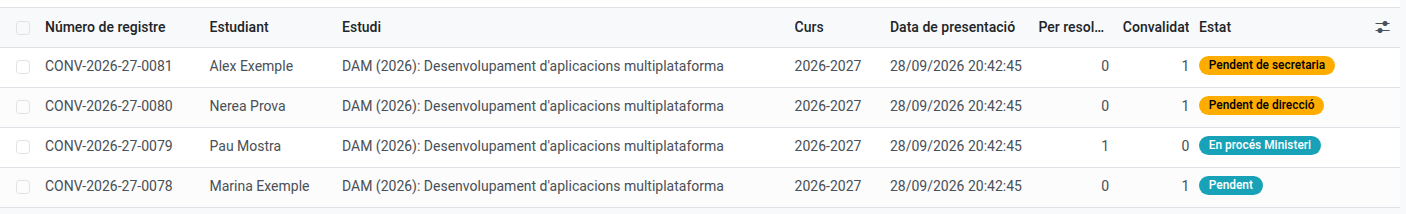
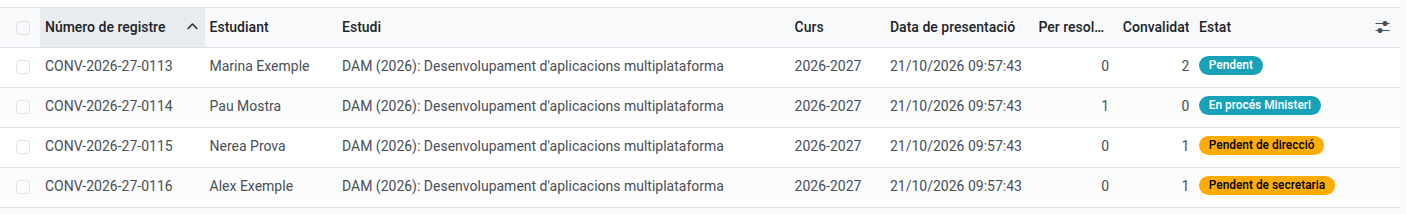
#657 Convalidations: oldest request first, identity document under the IDALU, academic history tab for the Head of Studies

diff --git a/static/tests/tours/convalidation_tour.js b/static/tests/tours/convalidation_tour.js
@@ -7,12 +7,26 @@ import { clickAction } from "@ems/../tests/tours/actions_dropdown_helpers";
 // tests/test_convalidation_tour.py and uses structural selectors (button names, CSS classes),
 // so the logged-in user's language does not matter.
 
+// Issue #657: the list puts the oldest request on top, so the test's own requests (course
+// 2094-95) can fall past the first page wherever the database already holds others. Each tour
+// looks them up by the registry number's course part; Enter searches the first field of the
+// search view, the registration number, whatever the user's language.
+const searchTestCourse = [
+    {
+        trigger: ".o_searchview_input",
+        content: "Look for the test course's requests",
+        run: "edit CONV-2094-95",
+    },
+    { trigger: ".o_searchview_input", content: "Confirm the search", run: "press Enter" },
+];
+
 // The Head of Studies reviews a request from Academic management > Convalidations: grants the
 // subject, grades it and sends the resolution proposal to the Director.
 registry.category("web_tour.tours").add("ems_convalidation_resolve", {
     test: true,
     url: "/odoo/action-ems.action_convalidation",
     steps: () => [
+        ...searchTestCourse,
         {
             trigger: ".o_list_view .o_data_row td[name='student_id']:contains('Convalidation Student')",
             content: "The pending request is listed under the default filters",
@@ -26,6 +40,26 @@ registry.category("web_tour.tours").add("ems_convalidation_resolve", {
             // Issue #576: the student's IDALU, with a button to copy it into Esfera.
             trigger: ".o_form_view .o_field_widget[name='student_idalu']:contains('TEST') .o_clipboard_button",
             content: "The student's IDALU is shown, ready to copy",
+        },
+        {
+            // Issue #657: and their identity document, the same way.
+            trigger: ".o_form_view .o_field_widget[name='student_document_id']:contains('00000657T') .o_clipboard_button",
+            content: "The student's document ID is shown, ready to copy",
+        },
+        {
+            // Issue #657: the academic history, for whoever decides the subjects.
+            trigger: ".o_form_view .o_notebook .nav-link[name='academic_history']",
+            content: "Open the student's academic history",
+            run: "click",
+        },
+        {
+            trigger: ".o_form_view .o_field_widget[name='student_year_record_ids'] .o_data_row td[name='study_name']:contains('Previous Study (Convalidation)')",
+            content: "What the student studied before is listed",
+        },
+        {
+            trigger: ".o_form_view .o_notebook .nav-link[name='subjects']",
+            content: "Back to the subjects",
+            run: "click",
         },
         {
             trigger: ".o_form_view .o_field_widget[name='line_ids'] .o_data_row button[name='action_open_grant']",
@@ -89,6 +123,7 @@ registry.category("web_tour.tours").add("ems_convalidation_ministry", {
     test: true,
     url: "/odoo/action-ems.action_convalidation",
     steps: () => [
+        ...searchTestCourse,
         {
             trigger: ".o_list_view .o_data_row td[name='student_id']:contains('Convalidation Student')",
             content: "Open the pending request",
@@ -146,6 +181,7 @@ registry.category("web_tour.tours").add("ems_convalidation_request_info", {
     test: true,
     url: "/odoo/action-ems.action_convalidation",
     steps: () => [
+        ...searchTestCourse,
         {
             trigger: ".o_list_view .o_data_row td[name='student_id']:contains('Convalidation Student')",
             content: "Open the pending request",
@@ -188,6 +224,7 @@ registry.category("web_tour.tours").add("ems_convalidation_director_resolves", {
     test: true,
     url: "/odoo/action-ems.action_convalidation",
     steps: () => [
+        ...searchTestCourse,
         {
             trigger: ".o_list_view .o_data_row td[name='student_id']:contains('Convalidation Student')",
             content: "The proposal is listed for the Director",
@@ -219,6 +256,7 @@ registry.category("web_tour.tours").add("ems_convalidation_director_returns", {
     test: true,
     url: "/odoo/action-ems.action_convalidation",
     steps: () => [
+        ...searchTestCourse,
         {
             trigger: ".o_list_view .o_data_row td[name='student_id']:contains('Convalidation Student')",
             content: "Open the proposal",
@@ -251,6 +289,7 @@ registry.category("web_tour.tours").add("ems_convalidation_complete", {
     test: true,
     url: "/odoo/action-ems.action_convalidation",
     steps: () => [
+        ...searchTestCourse,
         {
             trigger: ".o_list_view .o_data_row td[name='student_id']:contains('Convalidation Student')",
             content: "The resolved request is listed for the secretariat too",
@@ -259,6 +298,11 @@ registry.category("web_tour.tours").add("ems_convalidation_complete", {
         {
             trigger: ".o_form_view .o_statusbar_status button[data-value='in_progress'].o_arrow_button_current",
             content: "It is waiting for the secretariat",
+        },
+        {
+            // Issue #657: the academic history tab is the Head of Studies' only.
+            trigger: ".o_form_view .o_notebook:not(:has(.nav-link[name='academic_history']))",
+            content: "The secretariat does not get the academic history tab",
         },
         ...clickAction("action_complete", "Complete it"),
         {
@@ -502,9 +546,15 @@ registry.category("web_tour.tours").add("ems_convalidation_default_filter", {
             content: "Remove the default filter",
             run: "click",
         },
+        ...searchTestCourse,
         {
             trigger: ".o_list_view .o_data_row td[name='student_id']:contains('Still Under Review Student')",
             content: "Every request is there",
+        },
+        {
+            // Issue #657: first come, first served - the oldest request on top.
+            trigger: ".o_list_view .o_data_row:nth-child(1) td[name='student_id']:contains('Convalidation Student')",
+            content: "The oldest request comes first",
         },
     ],
 });

diff --git a/models/grades/convalidation.py b/models/grades/convalidation.py
@@ -46,6 +46,12 @@ class EmsConvalidation(models.Model):
                                  domain="[('contact_type', 'in', ('student', 'applicant'))]")
     student_idalu = fields.Char(string="Student ID", related='student_id.student_id',
                                 help="The student's IDALU, to look up their academic record in Esfera.")
+    student_document_id = fields.Char(string="Document ID", related='student_id.document_id',
+                                      help="The student's identity document, to look them up in other applications.")
+    # Issue #657: what the student studied before, for whoever decides the subjects. Field-level
+    # groups too, not only the page's: nobody else reads it by RPC either.
+    student_year_record_ids = fields.One2many(string="Academic history", related='student_id.year_record_ids',
+                                              groups='ems.group_head_of_studies,ems.group_academic_admin')
     requester_id = fields.Many2one(string="Requested by", comodel_name='res.partner', ondelete='set null',
                                    help="Portal user who submitted the request: the student or a family contact.")
     course_id = fields.Many2one(string="Course", comodel_name='ems.course', required=True,

diff --git a/tests/test_convalidation.py b/tests/test_convalidation.py
@@ -480,6 +480,19 @@ class TestConvalidation(TransactionCase):
         with self.assertRaises(UserError):
             request.with_user(self.head_of_studies).action_complete()
 
+    def test_academic_history_only_for_who_decides_the_subjects(self):
+        """Issue #657: the request shows the student's academic history to the Head of Studies,
+        and to the Director and the administrator above them; not to the secretariat, although
+        it reads the history elsewhere."""
+        request = self._request()
+        record = self.env['ems.student.year_record'].create({
+            'student_id': self.student.id, 'course_id': self.course.id})
+        admin = create_role_user(self, 'academic_admin', 'test_convalidation_history_admin')
+        for user in (self.head_of_studies, self.director, admin):
+            self.assertEqual(request.with_user(user).student_year_record_ids, record)
+        with self.assertRaises(AccessError):
+            request.with_user(self.secretary).read(['student_year_record_ids'])
+
     def test_director_can_review(self):
         request = self._request()
         self._line(request).with_user(self.director).action_grant()

diff --git a/tests/test_convalidation_tour.py b/tests/test_convalidation_tour.py
@@ -20,6 +20,12 @@ class TestConvalidationTour(HttpCase):
         super().setUpClass()
         mock_outgoing_email(cls)
         create_portal_convalidation_fixtures(cls)
+        # Issue #657: the request shows both, to the Head of Studies.
+        cls.student.document_id = '00000657T'
+        cls.env['ems.student.year_record'].create({
+            'student_id': cls.student.id, 'course_id': cls.env['ems.course'].create({'start': 2092, 'end': 2093}).id,
+            'study_name': 'Previous Study (Convalidation)', 'is_external': True,
+        })
         cls.request = cls.env['ems.convalidation'].create({
             'student_id': cls.student.id, 'study_id': cls.study.id, 'course_id': cls.course.id,
             'line_ids': [(0, 0, {'subject_id': cls.subject.id})],

diff --git a/tests/test_docs_screenshots.py b/tests/test_docs_screenshots.py
@@ -396,6 +396,8 @@ class TestDocsScreenshots(DocsScreenshotMixin, HttpCase):
                 'state': 'rejected',
                 'rejection_reason_id': self.env.ref('ems.convalidation_rejection_reason_contents').id})
 
+        # Issue #657: the identity document, copied like the IDALU above it.
+        self.students[0].document_id = '00000000T'
         # The Head of Studies' review: subjects decided, one refused with its reason.
         review = new_request(self.students[0], subjects[1:], attachment_ids=[(0, 0, {
             'name': 'Certificat_academic_SMX.pdf', 'datas': base64.b64encode(b'%PDF-1.4 x')})],

diff --git a/docs/en/developers/grades/convalidation.md b/docs/en/developers/grades/convalidation.md
@@ -44,9 +44,11 @@ erDiagram
 
 | Field | Type | Notes |
 |-------|------|-------|
-| `name` | Char | Registration number, `CONV-<start>-<end, two digits>-<4-digit counter>` (e.g. `CONV-2026-27-0001`), assigned on creation by `_ems_next_registration_number(course)`. The counter starts again every course: one `ir.sequence` per course (code `ems.convalidation.course.<id>`, the prefix baked in), created the first time that course gets a request, so nothing has to be prepared before a year opens. Leads `display_name`. |
+| `name` | Char | Registration number, `CONV-<start>-<end, two digits>-<4-digit counter>` (e.g. `CONV-2026-27-0001`), assigned on creation by `_ems_next_registration_number(course)`. The counter starts again every course: one `ir.sequence` per course (code `ems.convalidation.course.<id>`, the prefix baked in), created the first time that course gets a request, so nothing has to be prepared before a year opens. Leads `display_name`. The backend list sorts by it ascending (`default_order="name asc, id asc"`, issue #657): first come, first served, the oldest request on top; the model's own `_order` (`submission_date desc`) stays for the student's own requests on the portal, newest first. |
 | `student_id` | M2o `res.partner` | Required. Student or applicant (an applicant enrolling into a cycle is the typical requester). |
 | `student_idalu` | Char, related | The student's IDALU (`student_id.student_id`), shown under *Requested by* with a copy button (`CopyClipboardChar`) to paste it into Esfera, as an optional list column, and searchable from the *Student* search field (issue #576). |
+| `student_document_id` | Char, related | The student's identity document (`student_id.document_id`), right under the IDALU with the same compact copy button, as an optional list column, and searchable from the *Student* search field too (issue #657): to look the student up in other applications. |
+| `student_year_record_ids` | O2m, related | The student's academic history (`student_id.year_record_ids`), on the form's **Academic history** tab (issue #657), for whoever decides the subjects. Field-level `groups` (`group_head_of_studies`, which the Director's group implies, and `group_academic_admin`) on top of the page's, so the secretariat, which reads the history elsewhere, gets an `AccessError` here even by RPC. Rendered with `view_year_record_history_list`, the same list the student form uses. |
 | `requester_id` | M2o `res.partner` | The portal user who submitted it: the student or a family contact. |
 | `course_id` | M2o `ems.course` | Required. Defaults to the enrollment course (`is_enrollment_default`), else the current one: requests are made while enrolling. |
 | `study_id` | M2o `ems.study` | Required. Its level must allow convalidations (`_check_study_allows_convalidation`). |

diff --git a/docs/ca/head_of_studies/convalidations.md b/docs/ca/head_of_studies/convalidations.md
@@ -49,6 +49,8 @@ La llista s'obre amb el filtre **Pendents de mi** activat, que mostra les sol·l
 
 Les que esperen la documentació del sol·licitant no hi surten mai: fes servir el filtre **Pendent de documentació** per veure-les. Treu el filtre **Pendents de mi** per veure totes les sol·licituds, o fes servir el filtre d'un estat concret (**Pendent de direcció**, **Completades**, **Rebutjades**, **Anul·lades**...) per seguir les que són en mans d'algú altre.
 
+La llista mostra primer la sol·licitud més antiga, per número de registre, perquè les sol·licituds s'atenguin en l'ordre en què han arribat.
+
 ![Llista de sol·licituds de convalidació](../../assets/head_of_studies/convalidations-list.png)
 
 Per veure les sol·licituds d'un alumne, obre la seva fitxa i fes clic al botó **Convalidacions**.
@@ -68,10 +70,12 @@ Obre la sol·licitud des de la llista. El formulari mostra:
 
 - El **número de registre** (per exemple CONV-2026-27-0001), a sobre del nom de l'alumne.
 - L'IDALU de l'alumne (**Identificador d'estudiant**), sota *Sol·licitada per*, amb un botó que el copia per enganxar-lo a Esfera i consultar-ne l'expedient acadèmic. També pots escriure un IDALU al cercador de la llista, a *Alumne*, per trobar-ne les sol·licituds.
+- El document d'identitat de l'alumne (**Document d'identitat (DNI/NIE)**), just sota l'IDALU i amb el mateix botó de copiar, per trobar l'alumne en altres aplicacions. També el pots cercar a *Alumne*.
 - **Estudi**, **Curs** i **Motiu**. Aquestes dades, l'alumne i les observacions del sol·licitant són les de la sol·licitud i no es poden modificar.
 - **Estudis superats** (només estudis previs): en aquest centre o en un altre centre o a la universitat. Una sol·licitud del portal per estudis superats en un altre lloc, o per qualsevol altre motiu, sempre arriba amb documentació justificativa; només els estudis superats aquí poden arribar sense.
 - Sota el nom de l'alumne, l'avís **Té una titulació obtinguda al centre** quan a l'històric acadèmic hi consta un títol obtingut aquí.
 - Pestanya **Assignatures**: una línia per cada mòdul sol·licitat.
+- Pestanya **Històric acadèmic** (només cap d'estudis, cap d'estudis adjunt, direcció i administrador): l'històric de l'alumne al centre, una línia per curs, el mateix que mostra la seva fitxa. Obre una línia per veure'n les assignatures i les notes.
 - Pestanya **Documentació justificativa**: els fitxers adjuntats.
 - Pestanya **Observacions del sol·licitant**: el que ha escrit l'alumne o la família.
 - Pestanya **Documentació sol·licitada**: l'última documentació que has demanat, si n'has demanat.

diff --git a/docs/es/head_of_studies/convalidations.md b/docs/es/head_of_studies/convalidations.md
@@ -49,6 +49,8 @@ La lista se abre con el filtro **Pendientes de mí** activado, que muestra las s
 
 Las que esperan la documentación del solicitante no aparecen nunca: usa el filtro **Pendiente de documentación** para verlas. Quita el filtro **Pendientes de mí** para ver todas las solicitudes, o usa el filtro de un estado concreto (**Pendiente de dirección**, **Completadas**, **Rechazadas**, **Anuladas**...) para seguir las que están en manos de otra persona.
 
+La lista muestra primero la solicitud más antigua, por número de registro, para que las solicitudes se atiendan en el orden en que han llegado.
+
 ![Lista de solicitudes de convalidación](../../assets/head_of_studies/convalidations-list.png)
 
 Para ver las solicitudes de un alumno, abre su ficha y haz clic en el botón **Convalidaciones**.
@@ -68,10 +70,12 @@ Abre la solicitud desde la lista. El formulario muestra:
 
 - El **número de registro** (por ejemplo CONV-2026-27-0001), encima del nombre del alumno.
 - El IDALU del alumno (**ID de estudiante**), bajo *Solicitada por*, con un botón que lo copia para pegarlo en Esfera y consultar su expediente académico. También puedes escribir un IDALU en el buscador de la lista, en *Alumno*, para encontrar sus solicitudes.
+- El documento de identidad del alumno (**Documento de identidad (DNI/NIE)**), justo debajo del IDALU y con el mismo botón de copiar, para encontrar al alumno en otras aplicaciones. También puedes buscarlo en *Alumno*.
 - **Estudio**, **Curso** y **Motivo**. Estos datos, el alumno y las observaciones del solicitante son los de la solicitud y no se pueden modificar.
 - **Estudios superados** (solo estudios previos): en este centro o en otro centro o en la universidad. Una solicitud del portal por estudios superados en otro sitio, o por cualquier otro motivo, siempre llega con documentación justificativa; solo los estudios superados aquí pueden llegar sin ella.
 - Bajo el nombre del alumno, el aviso **Tiene una titulación obtenida en el centro** cuando en el historial académico consta un título obtenido aquí.
 - Pestaña **Asignaturas**: una línea por cada módulo solicitado.
+- Pestaña **Histórico académico** (solo JE, JEA, dirección y administrador): el histórico del alumno en el centro, una línea por curso, el mismo que muestra su ficha. Abre una línea para ver sus asignaturas y notas.
 - Pestaña **Documentación justificativa**: los ficheros adjuntados.
 - Pestaña **Observaciones del solicitante**: lo que ha escrito el alumno o la familia.
 - Pestaña **Documentación solicitada**: la última documentación que has pedido, si has pedido alguna.

diff --git a/docs/en/head_of_studies/convalidations.md b/docs/en/head_of_studies/convalidations.md
@@ -49,6 +49,8 @@ The list opens with the **Pending for me** filter on, which shows the requests w
 
 Requests waiting for the applicant's documentation are never among them: use the **Pending documentation** filter to see them. Remove the **Pending for me** filter to see every request, or use the filter of a specific state (**Pending the Director**, **Completed**, **Rejected**, **Cancelled**...) to follow the ones that are in somebody else's hands.
 
+The list shows the oldest request first, by registration number, so requests are dealt with in the order they arrived.
+
 ![Convalidation request list](../../assets/head_of_studies/convalidations-list.png)
 
 To see a student's requests, open their record and click the **Convalidations** button.
@@ -68,10 +70,12 @@ Open the request from the list. The form shows:
 
 - The **registration number** (e.g. CONV-2026-27-0001), above the student's name.
 - The student's IDALU (**Student ID**), under *Requested by*, with a button that copies it so you can paste it into Esfera to look up their academic record. You can also type an IDALU in the list's search bar, under *Student*, to find their requests.
+- The student's identity document (**Document ID**), right under the IDALU and with the same copy button, to look the student up in other applications. You can also search for it under *Student*.
 - **Study**, **Course** and **Grounds**. These, the student and the applicant's comments come from the request and cannot be changed.
 - **Studies passed** (prior studies only): at this centre or at another centre or university. A request from the portal for studies passed elsewhere, or on any other grounds, always comes with supporting documents; only studies passed here may come without them.
 - Under the student's name, the notice **Holds a title obtained at this centre** when the academic history records a title obtained here.
 - **Subjects** tab: one line for each module requested.
+- **Academic history** tab (Head of Studies, Deputy, Director and administrator only): the student's history at the centre, one line per course, the same one their form shows. Open a line to see its subjects and grades.
 - **Supporting documents** tab: the attached files.
 - **Applicant's comments** tab: what the student or the family wrote.
 - **Documentation requested** tab: the last documentation you asked for, if any.

diff --git a/changelog/657-convalidation-changes.md b/changelog/657-convalidation-changes.md
@@ -1,0 +1,12 @@
+# Changes
+
+## Convalidation requests (oldest first, identity document, academic history tab):
+
+- The backend list of convalidation requests now shows the oldest request on top (registration number ascending), so requests are dealt with first come, first served. The student's own list on the portal keeps showing the newest first.
+- The request form shows the student's identity document (DNI/NIE) right under the IDALU, with the same compact copy button and the same width, to look the student up in other applications. It is also an optional list column and can be searched from the Student search field.
+- New "Academic history" tab on the request, only for the Head of Studies, the Deputy Head of Studies, the Director and the administrator: the student's history at the centre, one line per course, the same list the student form shows (now a shared list view). The secretariat cannot read it from the request, not even by RPC (field-level groups).
+- The convalidation tours now look up their own requests by the test course's registration number instead of relying on them being on top of the list.
+
+# Related with
+
+- Closes #657

diff --git a/docs/es/secretary/convalidations.md b/docs/es/secretary/convalidations.md
@@ -23,7 +23,7 @@ Cada solicitud resuelta aparece en la bandeja de actividades (🕒) de todo el p
 
 ## Acceso
 
-Navega a: **Gestión académica → Convalidaciones**. La lista se abre con el filtro **Pendientes de mí** activado, que para secretaría muestra las solicitudes en estado **Pendiente de secretaría**; quítalo para ver todas las solicitudes. También puedes buscar una solicitud por su **número de registro** (por ejemplo CONV-2026-27-0001).
+Navega a: **Gestión académica → Convalidaciones**. La lista se abre con el filtro **Pendientes de mí** activado, que para secretaría muestra las solicitudes en estado **Pendiente de secretaría**; quítalo para ver todas las solicitudes. También puedes buscar una solicitud por su **número de registro** (por ejemplo CONV-2026-27-0001). La solicitud más antigua aparece primero.
 
 Para ver las solicitudes de un alumno, abre su ficha y haz clic en el botón **Convalidaciones**.
 

diff --git a/docs/ca/secretary/convalidations.md b/docs/ca/secretary/convalidations.md
@@ -23,7 +23,7 @@ Cada sol·licitud resolta apareix a la safata d'activitats (🕒) de tot el pers
 
 ## Accés
 
-Navega a: **Gestió acadèmica → Convalidacions**. La llista s'obre amb el filtre **Pendents de mi** activat, que per a secretaria mostra les sol·licituds en estat **Pendent de secretaria**; treu-lo per veure totes les sol·licituds. També pots cercar una sol·licitud pel seu **número de registre** (per exemple CONV-2026-27-0001).
+Navega a: **Gestió acadèmica → Convalidacions**. La llista s'obre amb el filtre **Pendents de mi** activat, que per a secretaria mostra les sol·licituds en estat **Pendent de secretaria**; treu-lo per veure totes les sol·licituds. També pots cercar una sol·licitud pel seu **número de registre** (per exemple CONV-2026-27-0001). La sol·licitud més antiga surt primer.
 
 Per veure les sol·licituds d'un alumne, obre la seva fitxa i fes clic al botó **Convalidacions**.
 
